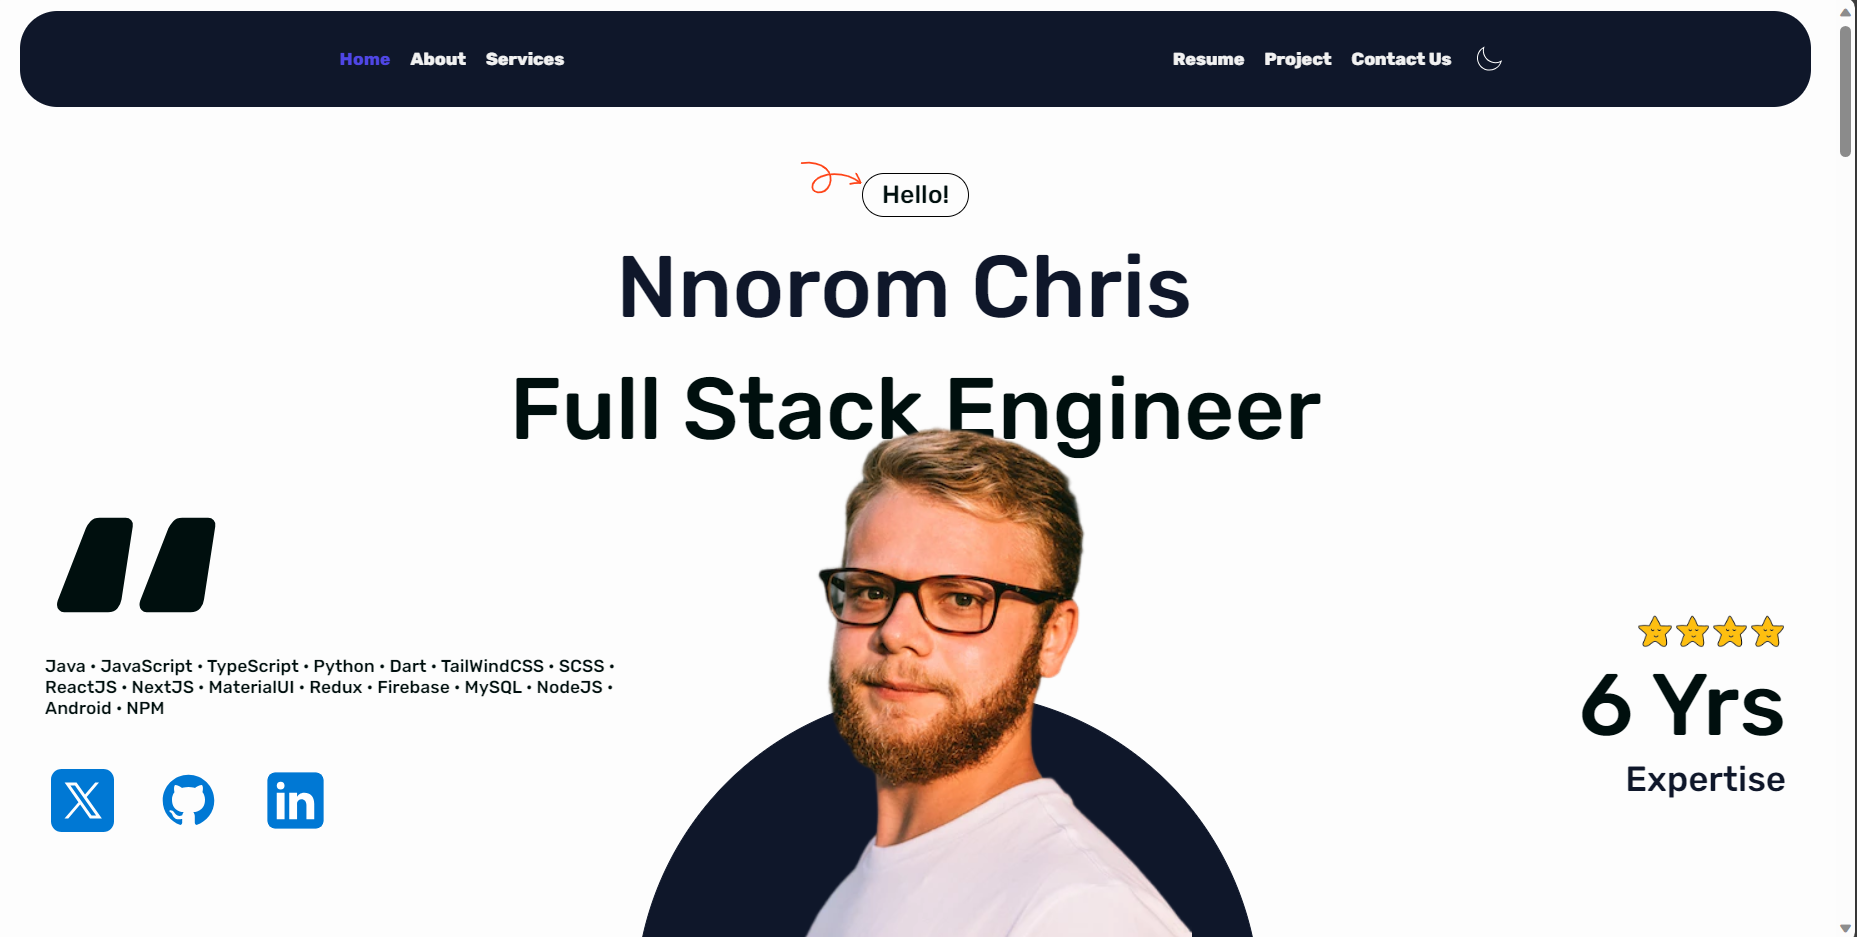
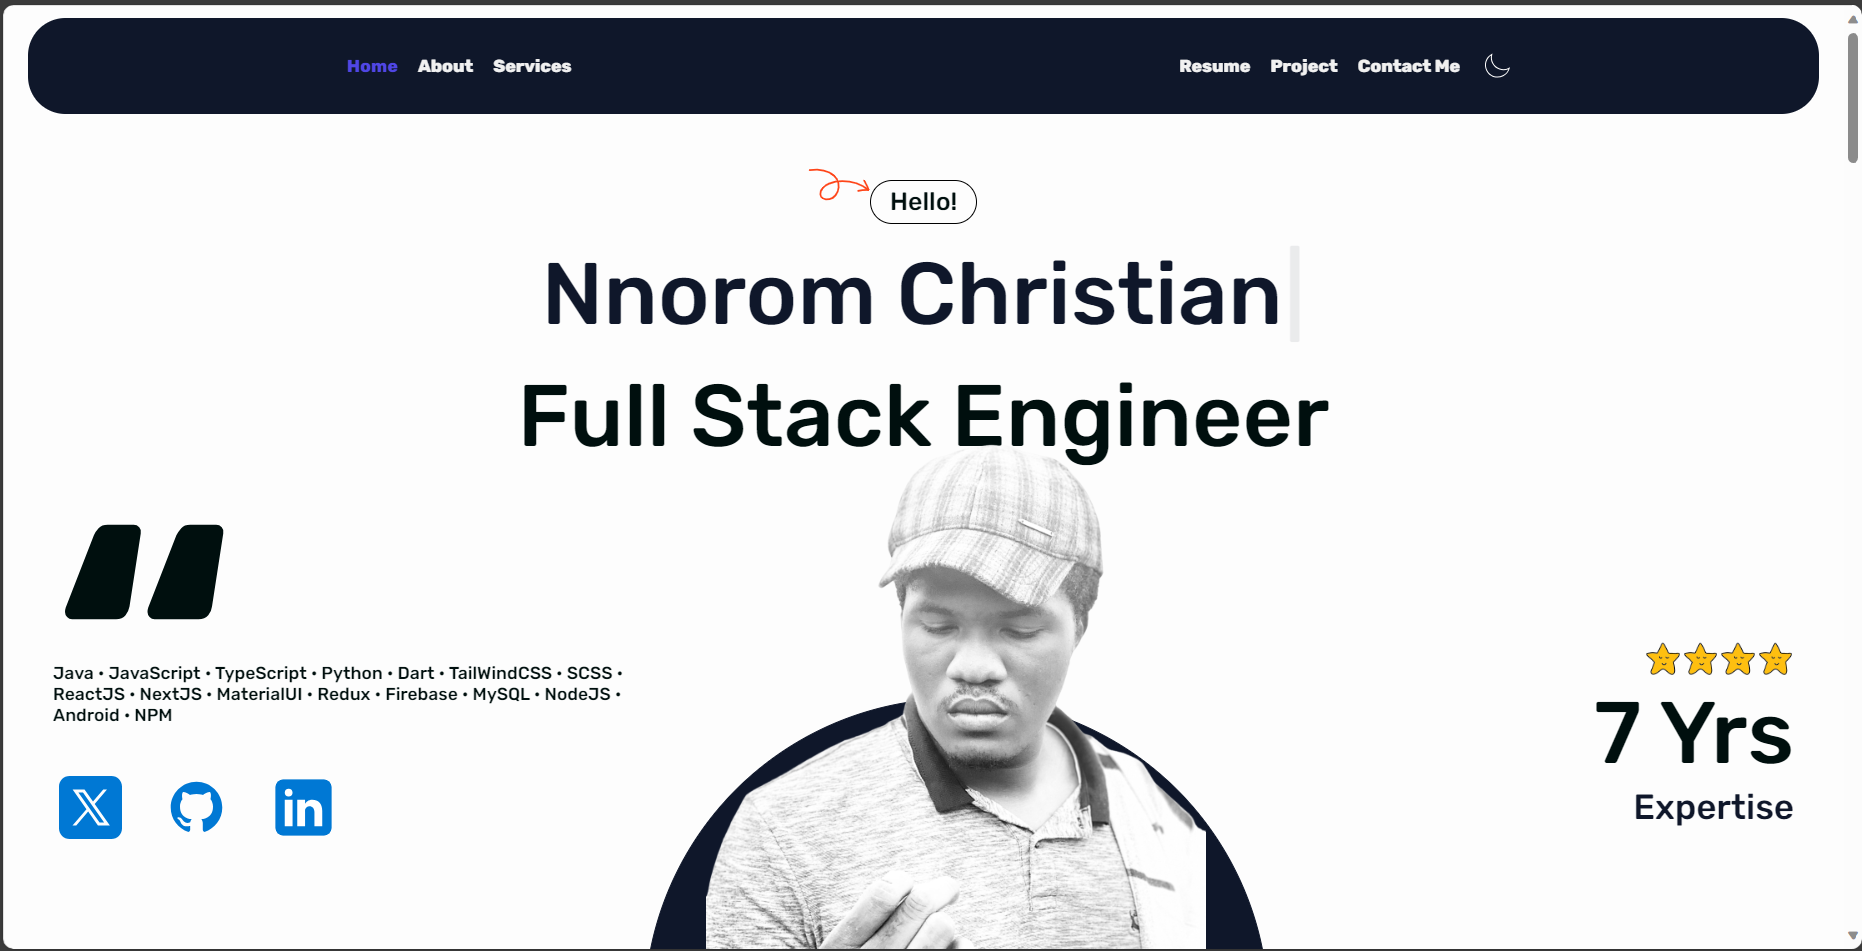
Update

diff --git a/index.html b/index.html
@@ -8,7 +8,7 @@
     <link rel="preconnect" href="https://fonts.gstatic.com" crossorigin>
     <link href="https://fonts.googleapis.com/css2?family=DM+Serif+Display:ital@0;1&family=Rubik:ital,wght@0,300;0,400;0,500;0,600;0,700;0,800;0,900;1,300;1,400;1,500;1,600;1,700;1,800;1,900&display=swap" rel="stylesheet">
     <link rel="stylesheet"  href="https://cdn.jsdelivr.net/npm/bootstrap@5.3.0/dist/css/bootstrap.min.css" integrity="sha384-9ndCyUaIbzAi2FUVXJi0CjmCapSmO7SnpJef0486qhLnuZ2cdeRhO02iuK6FUUVM"  crossorigin="anonymous" />
-    <title>PORTFOLIO</title>
+    <title>Portfolio</title>
   </head>
   <body>
     <div id="root"></div>

diff --git a/src/components/Home/Hero.jsx b/src/components/Home/Hero.jsx
@@ -1,5 +1,5 @@
 import { styled } from 'styled-components'
-import IMAGE from '../../assets/img_2.png'
+import IMAGE from '../../assets/me_2.png'
 import Arrow from '../../assets/arrow.svg'
 import Socials from '../Socials'
 import STAR from '../../assets/star.png'
@@ -152,6 +152,12 @@ const InnerCircle = styled.div`
 `
 const MyImage = styled.img`
     object-fit: contain;
+    width: 400px;
+    margin: 80px 0 0 -10px;
+
+    @media screen and (max-width: 769px){
+        margin: 80px 0 0 0;
+    }
 
     @media screen and (max-width: 426px){
         width: 250px

diff --git a/src/components/Home/Hiring.jsx b/src/components/Home/Hiring.jsx
@@ -1,5 +1,5 @@
 import { styled } from "styled-components"
-import IMAGE from '../../assets/img_2.png'
+import IMAGE from '../../assets/me.png'
 import { GreetingCase, IntroTextSpan, IntroText, Text } from  './Hero'
 
 const Body = styled.div`

diff --git a/README.md b/README.md
@@ -35,7 +35,7 @@ Feel free to reach out! [Contact](#contact)
 
 ## Projects
 
-### Project 1: [Bank Management System]([link-to-project-1](https://github.com/nnoromiv/bankManagementSystem))
+### Project 1: [Bank Management System](https://github.com/nnoromiv/bankManagementSystem)
 
 - The Bank Management System is a Java application that enables users to perform various banking operations. It includes features like user authentication, account creation, and transaction management.
 - Java, HTML
@@ -44,10 +44,8 @@ Feel free to reach out! [Contact](#contact)
 ### Project 2: [Car Show](https://github.com/nnoromiv/CarShow)
 
 - This web application uses API to show car data and details to users
-- TypeScript, CSS, JavaScript
+- TypeScript, TailwindCSS, JavaScript
 - [Link](https://github.com/nnoromiv/CarShow)
-
-... (add more projects as needed)
 
 ## Skills
 
@@ -60,8 +58,6 @@ List of my key skills, technologies, and tools that you are proficient in. You c
 
 ## Resume
 
-Include a link to your detailed resume or CV.
-
 [Resume](https://www.linkedin.com/in/nnorom/)
 
 ## Contact
@@ -69,9 +65,9 @@ Include a link to your detailed resume or CV.
 Feel free to reach out for collaboration, job opportunities, or just to say hello!
 
 - **Email:** <nnorom.prince44@gmail.com>
-- **LinkedIn:** [Your LinkedIn Profile](https://www.linkedin.com/in/nnorom/)
-- **GitHub:** [Your GitHub Profile](https://github.com/nnoromiv)
-- **Portfolio Website:** [Portfolio Website](https://www.nnorom.netlify.app)
+- **LinkedIn** [Profile](https://www.linkedin.com/in/nnorom/)
+- **GitHub:** [Profile](https://github.com/nnoromiv)
+- **Portfolio Website:** [Website](https://www.nnorom.netlify.app)
 
 ## License
 
